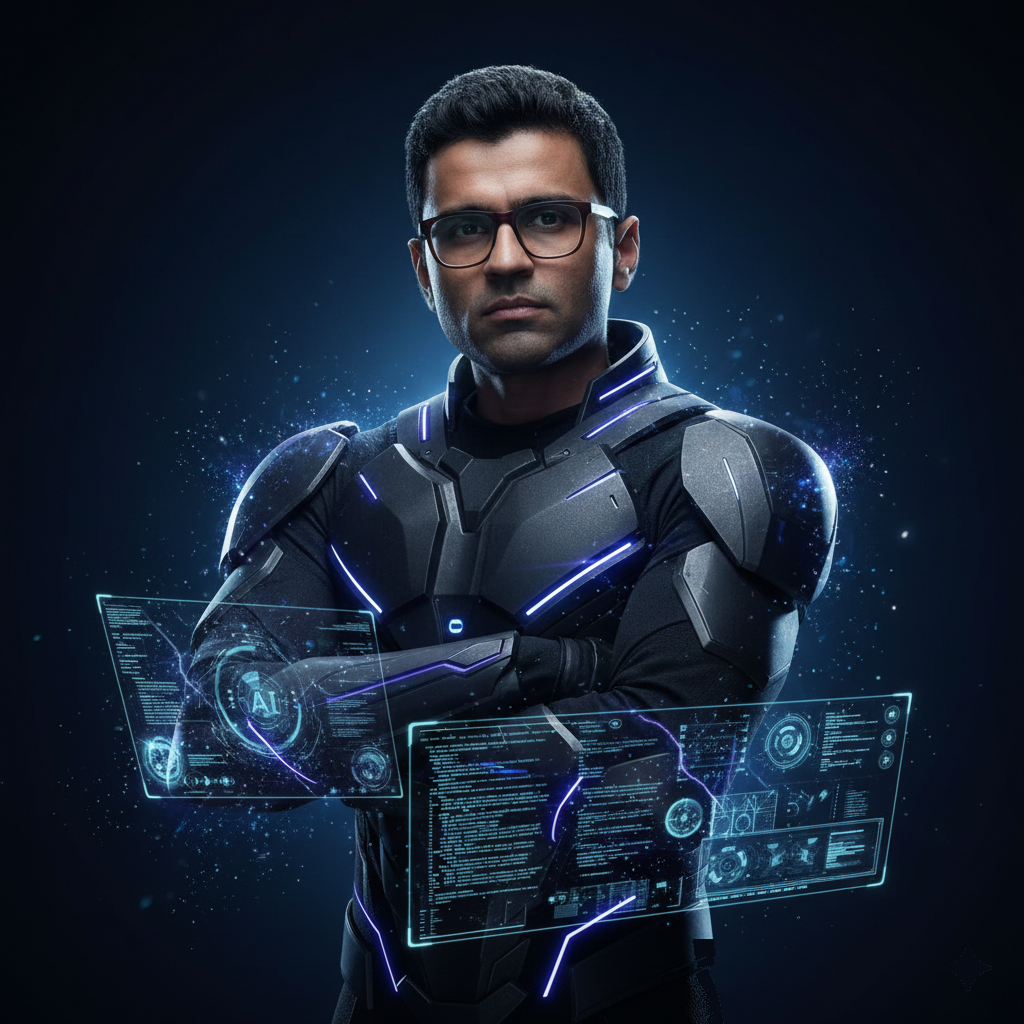
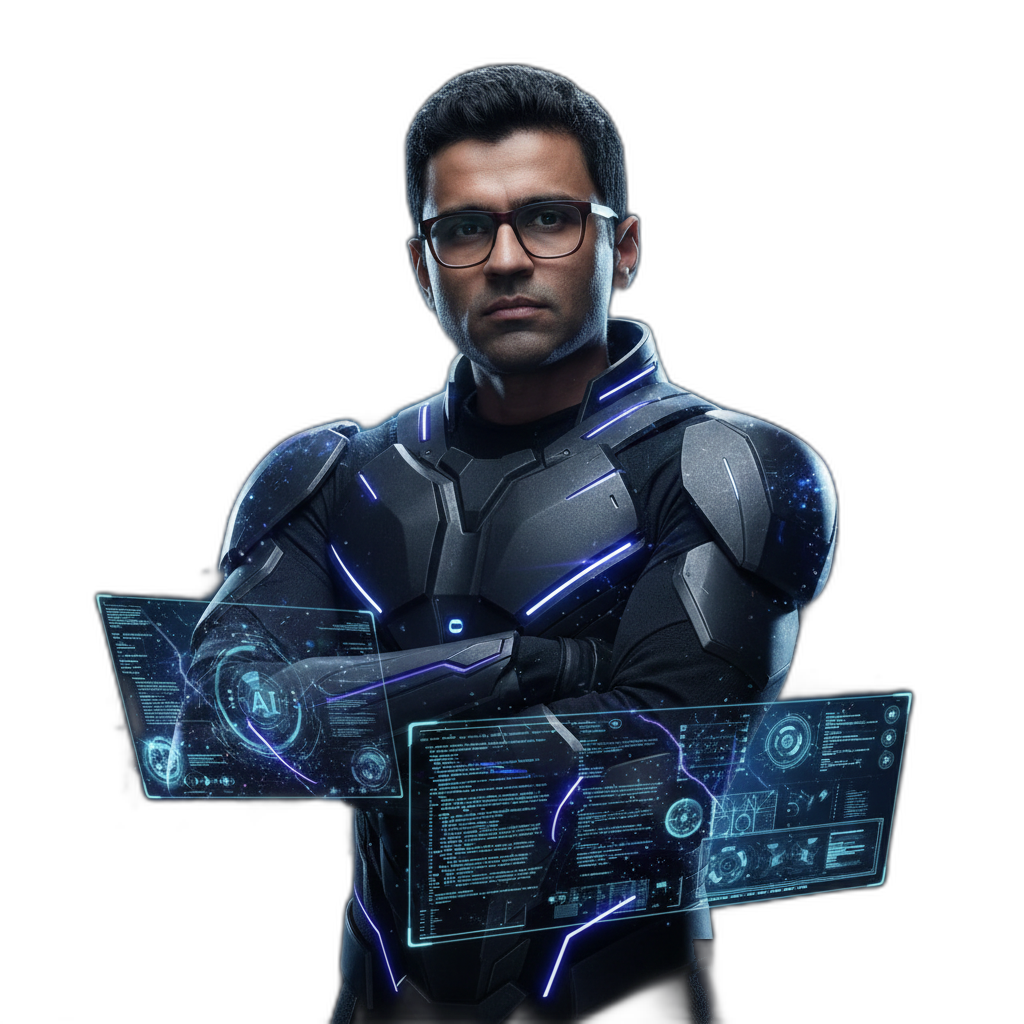
Add Free Transform for hero image, remove black backgrounds from hero PNGs
- Rewrite DraggableTemplateElement with 8 resize handles for image type:
  4 corner handles (proportional/aspect-ratio locked resize) +
  4 edge midpoint handles (free stretch in one axis)
- Corner resize anchors opposite corner (NW resize keeps SE fixed, etc.)
  by compensating offsetX/offsetY during resize
- Edge handles: N/S stretch height only, E/W stretch width only
- Proper cursors: nwse-resize, nesw-resize, ns-resize, ew-resize
- White handles with blue border, dashed border on hover, solid on select
- Min size 50x50px, no max (allows larger than canvas with overflow hidden)
- Text/badge types keep 4 corner handles with existing font/scale behavior
- Remove black backgrounds from all 4 hero PNGs using rembg:
  superhero-trio.png, dhaval-superhero.png, hemanand-superhero.png,
  siddhant-superhero.png — founders + glowing effects preserved on
  transparent background
- Remove CSS mask gradients from template (no longer needed with
  transparent PNGs)

https://claude.ai/code/session_011kMJ1AFNnmu7pfzoXjrKo2

diff --git a/src/components/DraggableTemplateElement.tsx b/src/components/DraggableTemplateElement.tsx
@@ -32,6 +32,8 @@ export const DEFAULT_ELEMENT_LAYOUT: ElementLayout = {
   offsetY: 0,
 };
 
+type HandleId = 'nw' | 'n' | 'ne' | 'e' | 'se' | 's' | 'sw' | 'w';
+
 interface DraggableTemplateElementProps {
   elementId: AIEngElementId;
   isInteractive: boolean;
@@ -51,7 +53,18 @@ interface DraggableTemplateElementProps {
   className?: string;
 }
 
-const MIN_SIZE = 40;
+const MIN_SIZE = 50;
+
+const HANDLE_CURSORS: Record<HandleId, string> = {
+  nw: 'nwse-resize',
+  se: 'nwse-resize',
+  ne: 'nesw-resize',
+  sw: 'nesw-resize',
+  n: 'ns-resize',
+  s: 'ns-resize',
+  e: 'ew-resize',
+  w: 'ew-resize',
+};
 
 export default function DraggableTemplateElement({
   elementId,
@@ -86,9 +99,12 @@ export default function DraggableTemplateElement({
     startClientY: 0,
     startWidth: 0,
     startHeight: 0,
+    startOffsetX: 0,
+    startOffsetY: 0,
     startFontSize: 0,
     startScale: 1,
-    corner: '',
+    handle: '' as HandleId | string,
+    aspectRatio: 1,
   });
 
   // Inverse scale for constant-size UI elements
@@ -149,20 +165,25 @@ export default function DraggableTemplateElement({
 
   // ── RESIZE ──
   const startResize = useCallback(
-    (corner: string) => (e: React.MouseEvent) => {
+    (handle: HandleId | string) => (e: React.MouseEvent) => {
       if (!isInteractive) return;
       e.preventDefault();
       e.stopPropagation();
       setIsResizing(true);
       onSelect(elementId);
+      const w = layout.width ?? defaultWidth ?? 200;
+      const h = layout.height ?? defaultHeight ?? 200;
       resizeRef.current = {
         startClientX: e.clientX,
         startClientY: e.clientY,
-        startWidth: layout.width ?? defaultWidth ?? 200,
-        startHeight: layout.height ?? defaultHeight ?? 200,
+        startWidth: w,
+        startHeight: h,
+        startOffsetX: layout.offsetX,
+        startOffsetY: layout.offsetY,
         startFontSize: layout.fontSize ?? defaultFontSize ?? 40,
         startScale: layout.scale ?? 1,
-        corner,
+        handle,
+        aspectRatio: w / Math.max(h, 1),
       };
     },
     [isInteractive, layout, defaultWidth, defaultHeight, defaultFontSize, elementId, onSelect],
@@ -173,22 +194,78 @@ export default function DraggableTemplateElement({
     const onMove = (e: MouseEvent) => {
       const dx = (e.clientX - resizeRef.current.startClientX) / canvasScale;
       const dy = (e.clientY - resizeRef.current.startClientY) / canvasScale;
-      const { corner, startWidth, startHeight, startFontSize, startScale } = resizeRef.current;
-
-      // Compute delta based on corner direction
-      let delta = dx;
-      if (corner === 'sw' || corner === 'nw') delta = -dx;
-      if (corner === 'ne' || corner === 'nw') delta = Math.abs(dx) > Math.abs(dy) ? (corner === 'nw' ? -dx : dx) : -dy;
+      const { handle, startWidth, startHeight, startOffsetX, startOffsetY, startFontSize, startScale, aspectRatio } = resizeRef.current;
 
       if (type === 'image') {
-        const ratio = startWidth / startHeight;
-        const newW = Math.max(MIN_SIZE, startWidth + delta);
-        const newH = newW / ratio;
-        onUpdate(elementId, { width: newW, height: newH });
+        let newW = startWidth;
+        let newH = startHeight;
+        let newOffX = startOffsetX;
+        let newOffY = startOffsetY;
+
+        switch (handle) {
+          // ── CORNERS: aspect-ratio locked ──
+          case 'se': {
+            // Anchor: top-left. Grow right+down.
+            const delta = Math.abs(dx) > Math.abs(dy) ? dx : dy * aspectRatio;
+            newW = Math.max(MIN_SIZE, startWidth + delta);
+            newH = newW / aspectRatio;
+            break;
+          }
+          case 'ne': {
+            // Anchor: bottom-left. Grow right+up.
+            const delta = Math.abs(dx) > Math.abs(dy) ? dx : -dy * aspectRatio;
+            newW = Math.max(MIN_SIZE, startWidth + delta);
+            newH = newW / aspectRatio;
+            newOffY = startOffsetY - (newH - startHeight);
+            break;
+          }
+          case 'sw': {
+            // Anchor: top-right. Grow left+down.
+            const delta = Math.abs(dx) > Math.abs(dy) ? -dx : dy * aspectRatio;
+            newW = Math.max(MIN_SIZE, startWidth + delta);
+            newH = newW / aspectRatio;
+            newOffX = startOffsetX - (newW - startWidth);
+            break;
+          }
+          case 'nw': {
+            // Anchor: bottom-right. Grow left+up.
+            const delta = Math.abs(dx) > Math.abs(dy) ? -dx : -dy * aspectRatio;
+            newW = Math.max(MIN_SIZE, startWidth + delta);
+            newH = newW / aspectRatio;
+            newOffX = startOffsetX - (newW - startWidth);
+            newOffY = startOffsetY - (newH - startHeight);
+            break;
+          }
+          // ── EDGES: free stretch (one axis only) ──
+          case 'e': {
+            newW = Math.max(MIN_SIZE, startWidth + dx);
+            break;
+          }
+          case 'w': {
+            newW = Math.max(MIN_SIZE, startWidth - dx);
+            newOffX = startOffsetX - (newW - startWidth);
+            break;
+          }
+          case 's': {
+            newH = Math.max(MIN_SIZE, startHeight + dy);
+            break;
+          }
+          case 'n': {
+            newH = Math.max(MIN_SIZE, startHeight - dy);
+            newOffY = startOffsetY - (newH - startHeight);
+            break;
+          }
+        }
+        onUpdate(elementId, { width: newW, height: newH, offsetX: newOffX, offsetY: newOffY });
       } else if (type === 'text') {
+        // Text: corners adjust font size
+        let delta = dx;
+        if (handle === 'sw' || handle === 'nw' || handle === 'w') delta = -dx;
         const newSize = Math.max(10, Math.min(200, startFontSize + delta * 0.5));
         onUpdate(elementId, { fontSize: newSize });
       } else if (type === 'badge') {
+        let delta = dx;
+        if (handle === 'sw' || handle === 'nw' || handle === 'w') delta = -dx;
         const newScale = Math.max(0.3, Math.min(3, startScale + delta * 0.003));
         onUpdate(elementId, { scale: newScale });
       }
@@ -223,12 +300,24 @@ export default function DraggableTemplateElement({
   const handlePx = 10 * inv;
   const borderPx = 2 * inv;
 
-  const cornerCursor: Record<string, string> = {
-    nw: 'nwse-resize',
-    ne: 'nesw-resize',
-    sw: 'nesw-resize',
-    se: 'nwse-resize',
-  };
+  // For image type when selected, show 8 handles; for text/badge show 4 corners
+  const isImage = type === 'image';
+
+  // Corner handles (all types get these when selected)
+  const cornerHandles: { id: HandleId; isTop: boolean; isLeft: boolean }[] = [
+    { id: 'nw', isTop: true, isLeft: true },
+    { id: 'ne', isTop: true, isLeft: false },
+    { id: 'sw', isTop: false, isLeft: true },
+    { id: 'se', isTop: false, isLeft: false },
+  ];
+
+  // Edge/midpoint handles (only for image type)
+  const edgeHandles: { id: HandleId; top?: string; bottom?: string; left?: string; right?: string; transform: string }[] = [
+    { id: 'n', top: `${-handlePx / 2}px`, left: '50%', transform: 'translateX(-50%)' },
+    { id: 's', bottom: `${-handlePx / 2}px`, left: '50%', transform: 'translateX(-50%)' },
+    { id: 'e', top: '50%', right: `${-handlePx / 2}px`, transform: 'translateY(-50%)' },
+    { id: 'w', top: '50%', left: `${-handlePx / 2}px`, transform: 'translateY(-50%)' },
+  ];
 
   return (
     <div
@@ -255,7 +344,7 @@ export default function DraggableTemplateElement({
           style={{
             position: 'absolute',
             inset: -borderPx,
-            border: `${borderPx}px solid ${isSelected ? '#3B82F6' : 'rgba(59,130,246,0.4)'}`,
+            border: `${borderPx}px ${isSelected ? 'solid' : 'dashed'} ${isSelected ? '#3B82F6' : 'rgba(59,130,246,0.4)'}`,
             borderRadius: 4 * inv,
             pointerEvents: 'none',
             zIndex: 10,
@@ -263,35 +352,55 @@ export default function DraggableTemplateElement({
         />
       )}
 
-      {/* Corner resize handles */}
+      {/* Corner resize handles (all types) */}
       {isSelected &&
-        (['nw', 'ne', 'sw', 'se'] as const).map(corner => {
-          const isTop = corner[0] === 'n';
-          const isLeft = corner[1] === 'w';
-          return (
-            <div
-              key={corner}
-              onMouseDown={startResize(corner)}
-              style={{
-                position: 'absolute',
-                width: handlePx,
-                height: handlePx,
-                backgroundColor: '#3B82F6',
-                border: `${borderPx}px solid #ffffff`,
-                borderRadius: 2 * inv,
-                top: isTop ? -handlePx / 2 : undefined,
-                bottom: isTop ? undefined : -handlePx / 2,
-                left: isLeft ? -handlePx / 2 : undefined,
-                right: isLeft ? undefined : -handlePx / 2,
-                cursor: cornerCursor[corner],
-                zIndex: 11,
-              }}
-            />
-          );
-        })}
+        cornerHandles.map(({ id, isTop, isLeft }) => (
+          <div
+            key={id}
+            onMouseDown={startResize(id)}
+            style={{
+              position: 'absolute',
+              width: handlePx,
+              height: handlePx,
+              backgroundColor: '#ffffff',
+              border: `${borderPx}px solid #3B82F6`,
+              borderRadius: 2 * inv,
+              top: isTop ? -handlePx / 2 : undefined,
+              bottom: isTop ? undefined : -handlePx / 2,
+              left: isLeft ? -handlePx / 2 : undefined,
+              right: isLeft ? undefined : -handlePx / 2,
+              cursor: HANDLE_CURSORS[id],
+              zIndex: 11,
+            }}
+          />
+        ))}
 
-      {/* Reset button (only when element has been moved) */}
-      {isSelected && (layout.offsetX !== 0 || layout.offsetY !== 0) && (
+      {/* Edge/midpoint resize handles (image type only) */}
+      {isSelected && isImage &&
+        edgeHandles.map((h) => (
+          <div
+            key={h.id}
+            onMouseDown={startResize(h.id)}
+            style={{
+              position: 'absolute',
+              width: (h.id === 'n' || h.id === 's') ? handlePx * 1.6 : handlePx,
+              height: (h.id === 'e' || h.id === 'w') ? handlePx * 1.6 : handlePx,
+              backgroundColor: '#ffffff',
+              border: `${borderPx}px solid #3B82F6`,
+              borderRadius: 2 * inv,
+              top: h.top,
+              bottom: h.bottom,
+              left: h.left,
+              right: h.right,
+              transform: h.transform,
+              cursor: HANDLE_CURSORS[h.id],
+              zIndex: 11,
+            }}
+          />
+        ))}
+
+      {/* Reset button (only when element has been moved/resized) */}
+      {isSelected && (layout.offsetX !== 0 || layout.offsetY !== 0 || layout.width || layout.height || layout.fontSize || layout.scale) && (
         <button
           onClick={e => {
             e.stopPropagation();

diff --git a/src/components/templates/AIEngineeringBootcampTemplate.tsx b/src/components/templates/AIEngineeringBootcampTemplate.tsx
@@ -335,19 +335,12 @@ export function AIEngineeringBootcampTemplate({
     </h2>
   );
 
-  // ── Hero image style — solid display, no blend mode ──
-  const heroImgStyle = (maskDir: 'right' | 'top'): React.CSSProperties => {
-    const mask = maskDir === 'top'
-      ? 'linear-gradient(to top, transparent 0%, black 15%)'
-      : 'linear-gradient(to right, transparent 0%, rgba(0,0,0,0.3) 10%, rgba(0,0,0,0.85) 30%, black 50%)';
-    return {
-      width: '100%',
-      height: '100%',
-      objectFit: 'contain' as const,
-      objectPosition: maskDir === 'top' ? 'bottom center' : 'bottom right',
-      maskImage: mask,
-      WebkitMaskImage: mask,
-    };
+  // ── Hero image style — solid display, transparent PNGs ──
+  const heroImgStyle: React.CSSProperties = {
+    width: '100%',
+    height: '100%',
+    objectFit: 'contain' as const,
+    objectPosition: 'bottom center',
   };
 
   // ── Background layers (shared across all layouts) ──
@@ -408,7 +401,6 @@ export function AIEngineeringBootcampTemplate({
     uspStrip: React.CSSProperties;
   };
 
-  let heroMaskDir: 'right' | 'top' = 'right';
   let heroImgExtraStyle: React.CSSProperties = {};
 
   // Background glow params
@@ -430,7 +422,6 @@ export function AIEngineeringBootcampTemplate({
       heroImage: { position: 'absolute', left: Math.round((width - heroW) / 2), top: heroY, zIndex: 3 },
       uspStrip: { position: 'absolute', left: 0, right: 0, bottom: 0, zIndex: 10 },
     };
-    heroMaskDir = 'top';
     glowParams = { top: '30%', right: '10%', w: width * 0.7, h: width * 0.7 };
   } else if (isSquare) {
     // ── SQUARE ──
@@ -447,7 +438,6 @@ export function AIEngineeringBootcampTemplate({
       heroImage: { position: 'absolute', right: 0, bottom: uspStripH, zIndex: 3 },
       uspStrip: { position: 'absolute', left: 0, right: 0, bottom: 0, zIndex: 10 },
     };
-    heroMaskDir = 'right';
     glowParams = { top: '15%', right: '-5%', w: width * 0.65, h: width * 0.65 };
   } else {
     // ── WIDE / LANDSCAPE ──
@@ -464,7 +454,6 @@ export function AIEngineeringBootcampTemplate({
       heroImage: { position: 'absolute', right: 0, top: Math.round(-10 * scale), zIndex: 3 },
       uspStrip: { position: 'absolute', left: 0, right: 0, bottom: 0, zIndex: 10 },
     };
-    heroMaskDir = 'right';
     heroImgExtraStyle = { height: '110%', width: undefined };
     glowParams = { top: '-10%', right: '10%', w: width * 0.6, h: height * 1.2 };
   }
@@ -517,7 +506,7 @@ export function AIEngineeringBootcampTemplate({
             src={heroImage}
             alt="AI Engineering Bootcamp Heroes"
             style={{
-              ...heroImgStyle(heroMaskDir),
+              ...heroImgStyle,
               ...heroImgExtraStyle,
             }}
           />
